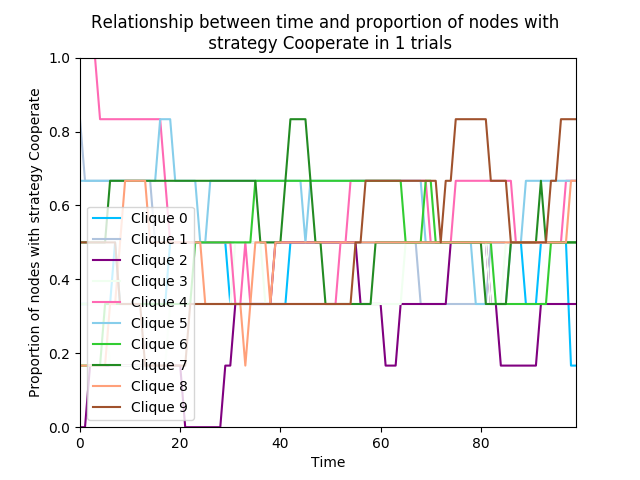
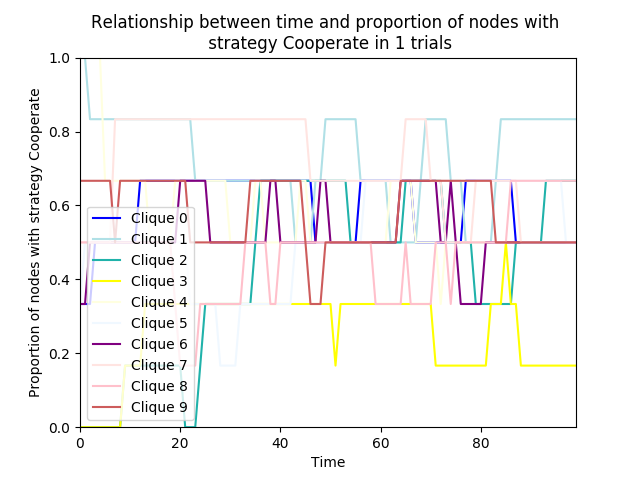
merging

diff --git a/test_files/timestep-control-1.py b/test_files/timestep-control-1.py
@@ -1124,19 +1124,19 @@ for start_prop_cooperators in prop_increments:
 CODE FOR MULTIPLE DUMBELLS
 AND MULTIPLE PROPORTIONS
 -------------------------'''
-#plot_multiple_dumbell_each_clique(parameters, graph_type, u, delta, noise, t, number_trials, 'Cooperate', num_rep, None, \
-#    'BD', plotting=True, show_graph=True, saving=True, color_fitness=True)
+plot_multiple_dumbell_each_clique(parameters, graph_type, u, delta, noise, t, number_trials, 'Cooperate', num_rep, None, \
+    'BD', plotting=True, show_graph=True, saving=True, color_fitness=True)
 
 
 
 #plot_trial_until_stable(parameters, graph_type, u, t, 'Cooperate', num_rep, \
 #    update_name = 'BD', plotting = True, show_graph = True, saving = False, color_fitness=False)
 
-graph=init.generate_graph([[5,7,9],2], 'dumbell_multiple_sized')
-init.label_dumbell_multiple_cliques_precise(graph, strat_list, {0:0.2, 1:0.9, 2:0.9})
-dis.color_and_draw_graph(graph)
-dis.color_fitness_and_draw_graph(graph, nx.spring_layout(graph))
-print(get_props_cliques(graph))
+#graph=init.generate_graph([[5,7,9],2], 'dumbell_multiple_sized')
+#init.label_dumbell_multiple_cliques_precise(graph, strat_list, {0:0.2, 1:0.9, 2:0.9})
+#dis.color_and_draw_graph(graph)
+#dis.color_fitness_and_draw_graph(graph, nx.spring_layout(graph))
+#print(get_props_cliques(graph))
 
 
 
